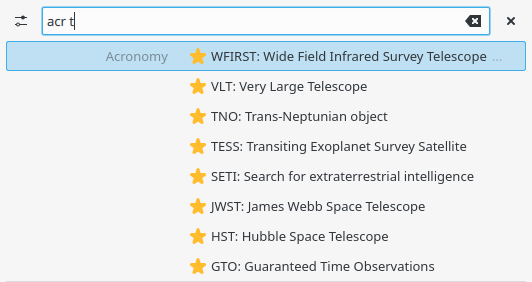
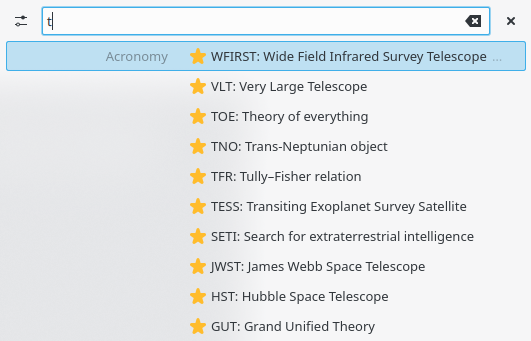
search locally

Changed region(s): [[0.0, 0.0, 0.9944, 0.4539], [0.3315, 0.4823, 0.9944, 1.0]]

diff --git a/acronomy.py b/acronomy.py
@@ -1,6 +1,7 @@
 #!/bin/env python3
 import argparse
 import webbrowser
+from datetime import datetime, timedelta
 
 import dbus.service
 import requests
@@ -12,33 +13,51 @@ DBusGMainLoop(set_as_default=True)
 objpath = "/acronomy"
 
 iface = "org.kde.krunner1"
-
 s = requests.Session()
+s.headers.update({'User-Agent': 'Acronomy Krunner'})
+
+
+class LocalData:
+    acronyms = {}
+    last_updated = datetime.now()
+
+    def __init__(self):
+        self.fetch_data()
+
+    def fetch_data(self):
+        print("fetching data")
+        r = s.get("https://acronomy.lw1.at/api/acronym/")
+        self.acronyms = {}
+        self.last_updated = datetime.now()
+        for acro in r.json():
+            self.acronyms[acro["name"].lower()] = acro
+
+    def search(self, query: str):
+        age = datetime.now() - self.last_updated
+        if age > timedelta(hours=3):
+            self.fetch_data()
+
+        query = query.lower()
+        for name, acro in self.acronyms.items():
+            if query in name:
+                yield acro
 
 
 class Runner(dbus.service.Object):
     def __init__(self, args):
         self.args = args
+        self.data = LocalData()
         dbus.service.Object.__init__(self, dbus.service.BusName("net.acronomy", dbus.SessionBus()), objpath)
 
     @dbus.service.method(iface, in_signature="s", out_signature="a(sssida{sv})")
     def Match(self, query: str):
-
-        if not self.args.less_privacy:
-            if not query.startswith(self.args.keyword):
-                return []
-            query = query.replace(self.args.keyword + " ", "")
-
-        if " " in query:
-            return []
-
         runners = []
-        r = s.get("https://acronomy.lw1.at/api/acronym/", params={"search": query})
+
         icon = "plasmagik"
         type = 100  # (Plasma::QueryType)
         relevance = 0.2  # 0-1
 
-        for result in r.json():
+        for result in self.data.search(query):
             data = result["slug"]
             display_text = result["name"] + ": " + result["full_name"]
             properties = {
@@ -61,8 +80,6 @@ class Runner(dbus.service.Object):
 
 def main():
     parser = argparse.ArgumentParser(description="acrronomy krunner background task")
-    parser.add_argument("-k", "--keyword", action="store", default="acr")
-    parser.add_argument("-l", "--less-privacy", action="store_true", default=False)
 
     args = parser.parse_args()
 

diff --git a/README.md b/README.md
@@ -6,17 +6,14 @@ This plugin allows to quickly look up an acronym on [Acronomy](https://acronomy.
 
 #### Installation
 
-- copy the `plasma-runner-acronomy.desktop` file to `~/.local/share/kservices5/`
+- copy the `plasma-runner-acronomy.desktop` file to `~/.loc al/share/kservices5/`
 - restart krunner: `kquitapp5 krunner; kstart5 krunner`
 
 The `acronomy.py` script needs to run permanently in the background to fetch the results.
 
 One easy way to accomplish this is to copy the `acronomy.desktop` to `~/.config/autostart/`.
 
-You can replace the search keyword (default `acr`) with the `--keyword` parameter.
-
-If you enable the `--less-privacy` mode, you don't need to specify any search keyword, but as a result all krunner searches are sent to the Astroacro API. (instead of only the ones starting with the search keyword)
-
+No search queries are sent to the Acronomy server. Instead a list of all acronyms is fetched and searched locally.
 
 This plugin uses the [Astroacro API](https://acronomy.lw1.at/api/). ([Privacy Policy](http://lw1.at/i))
 
